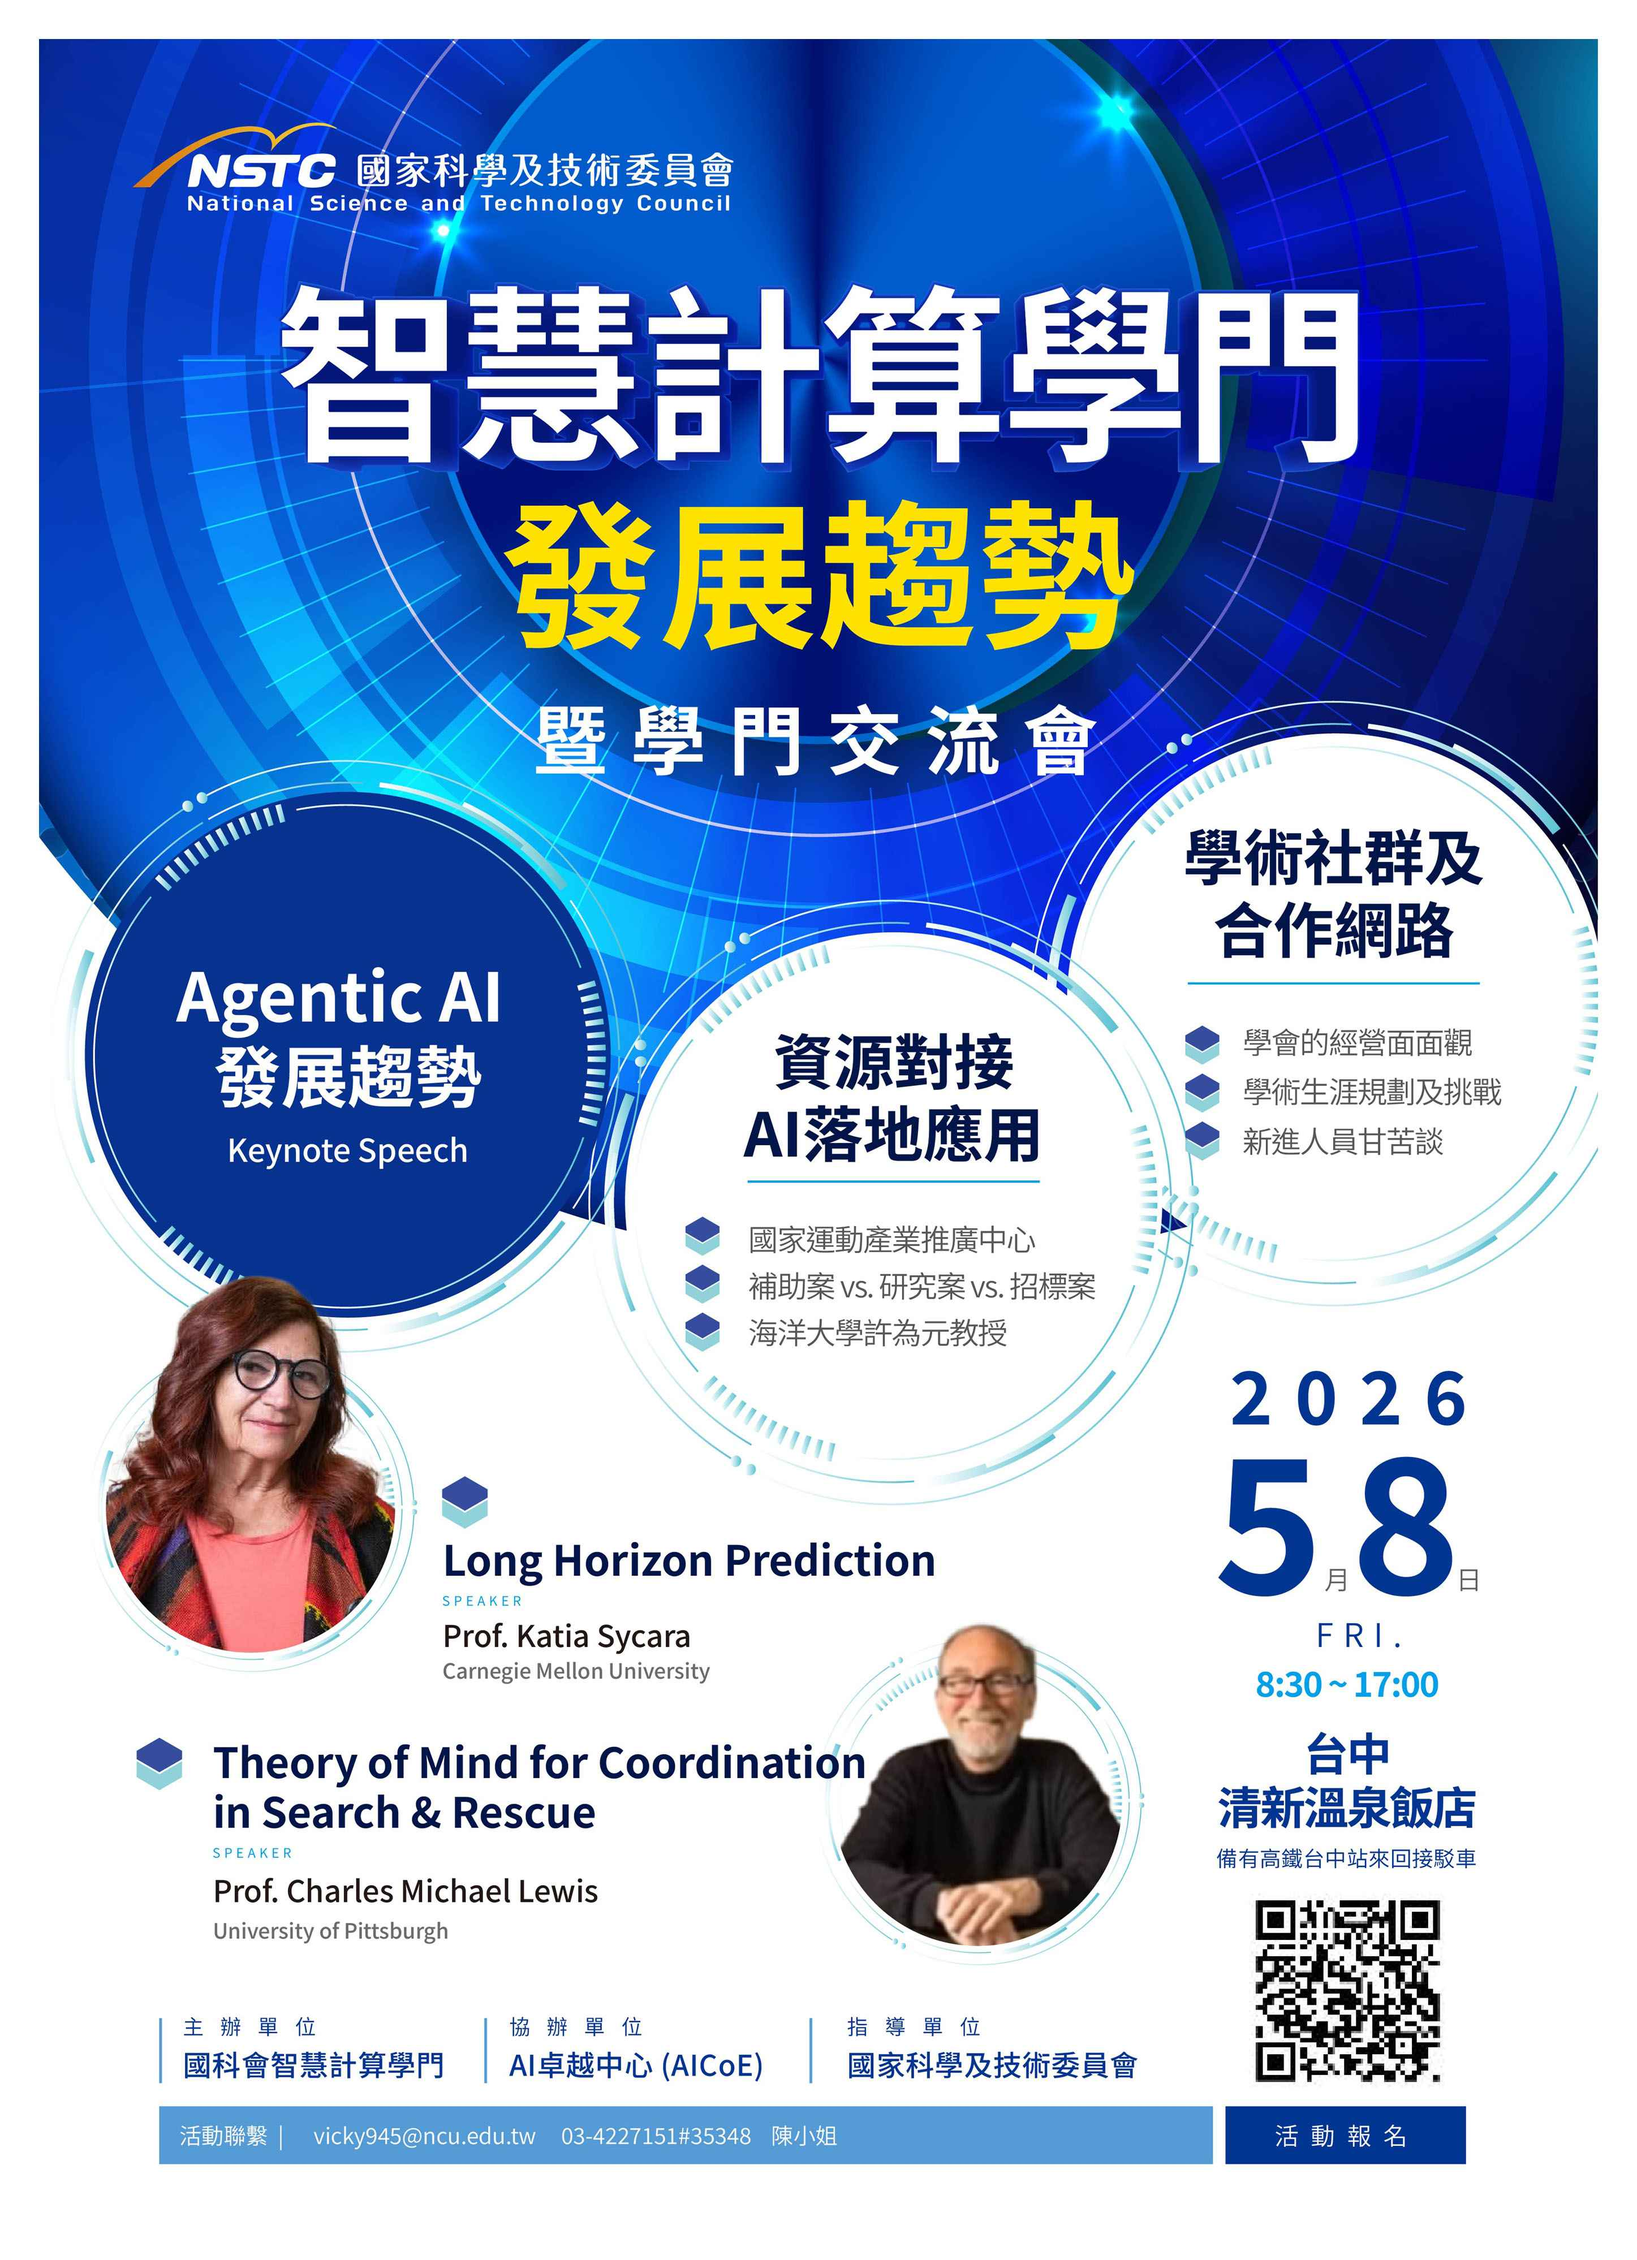
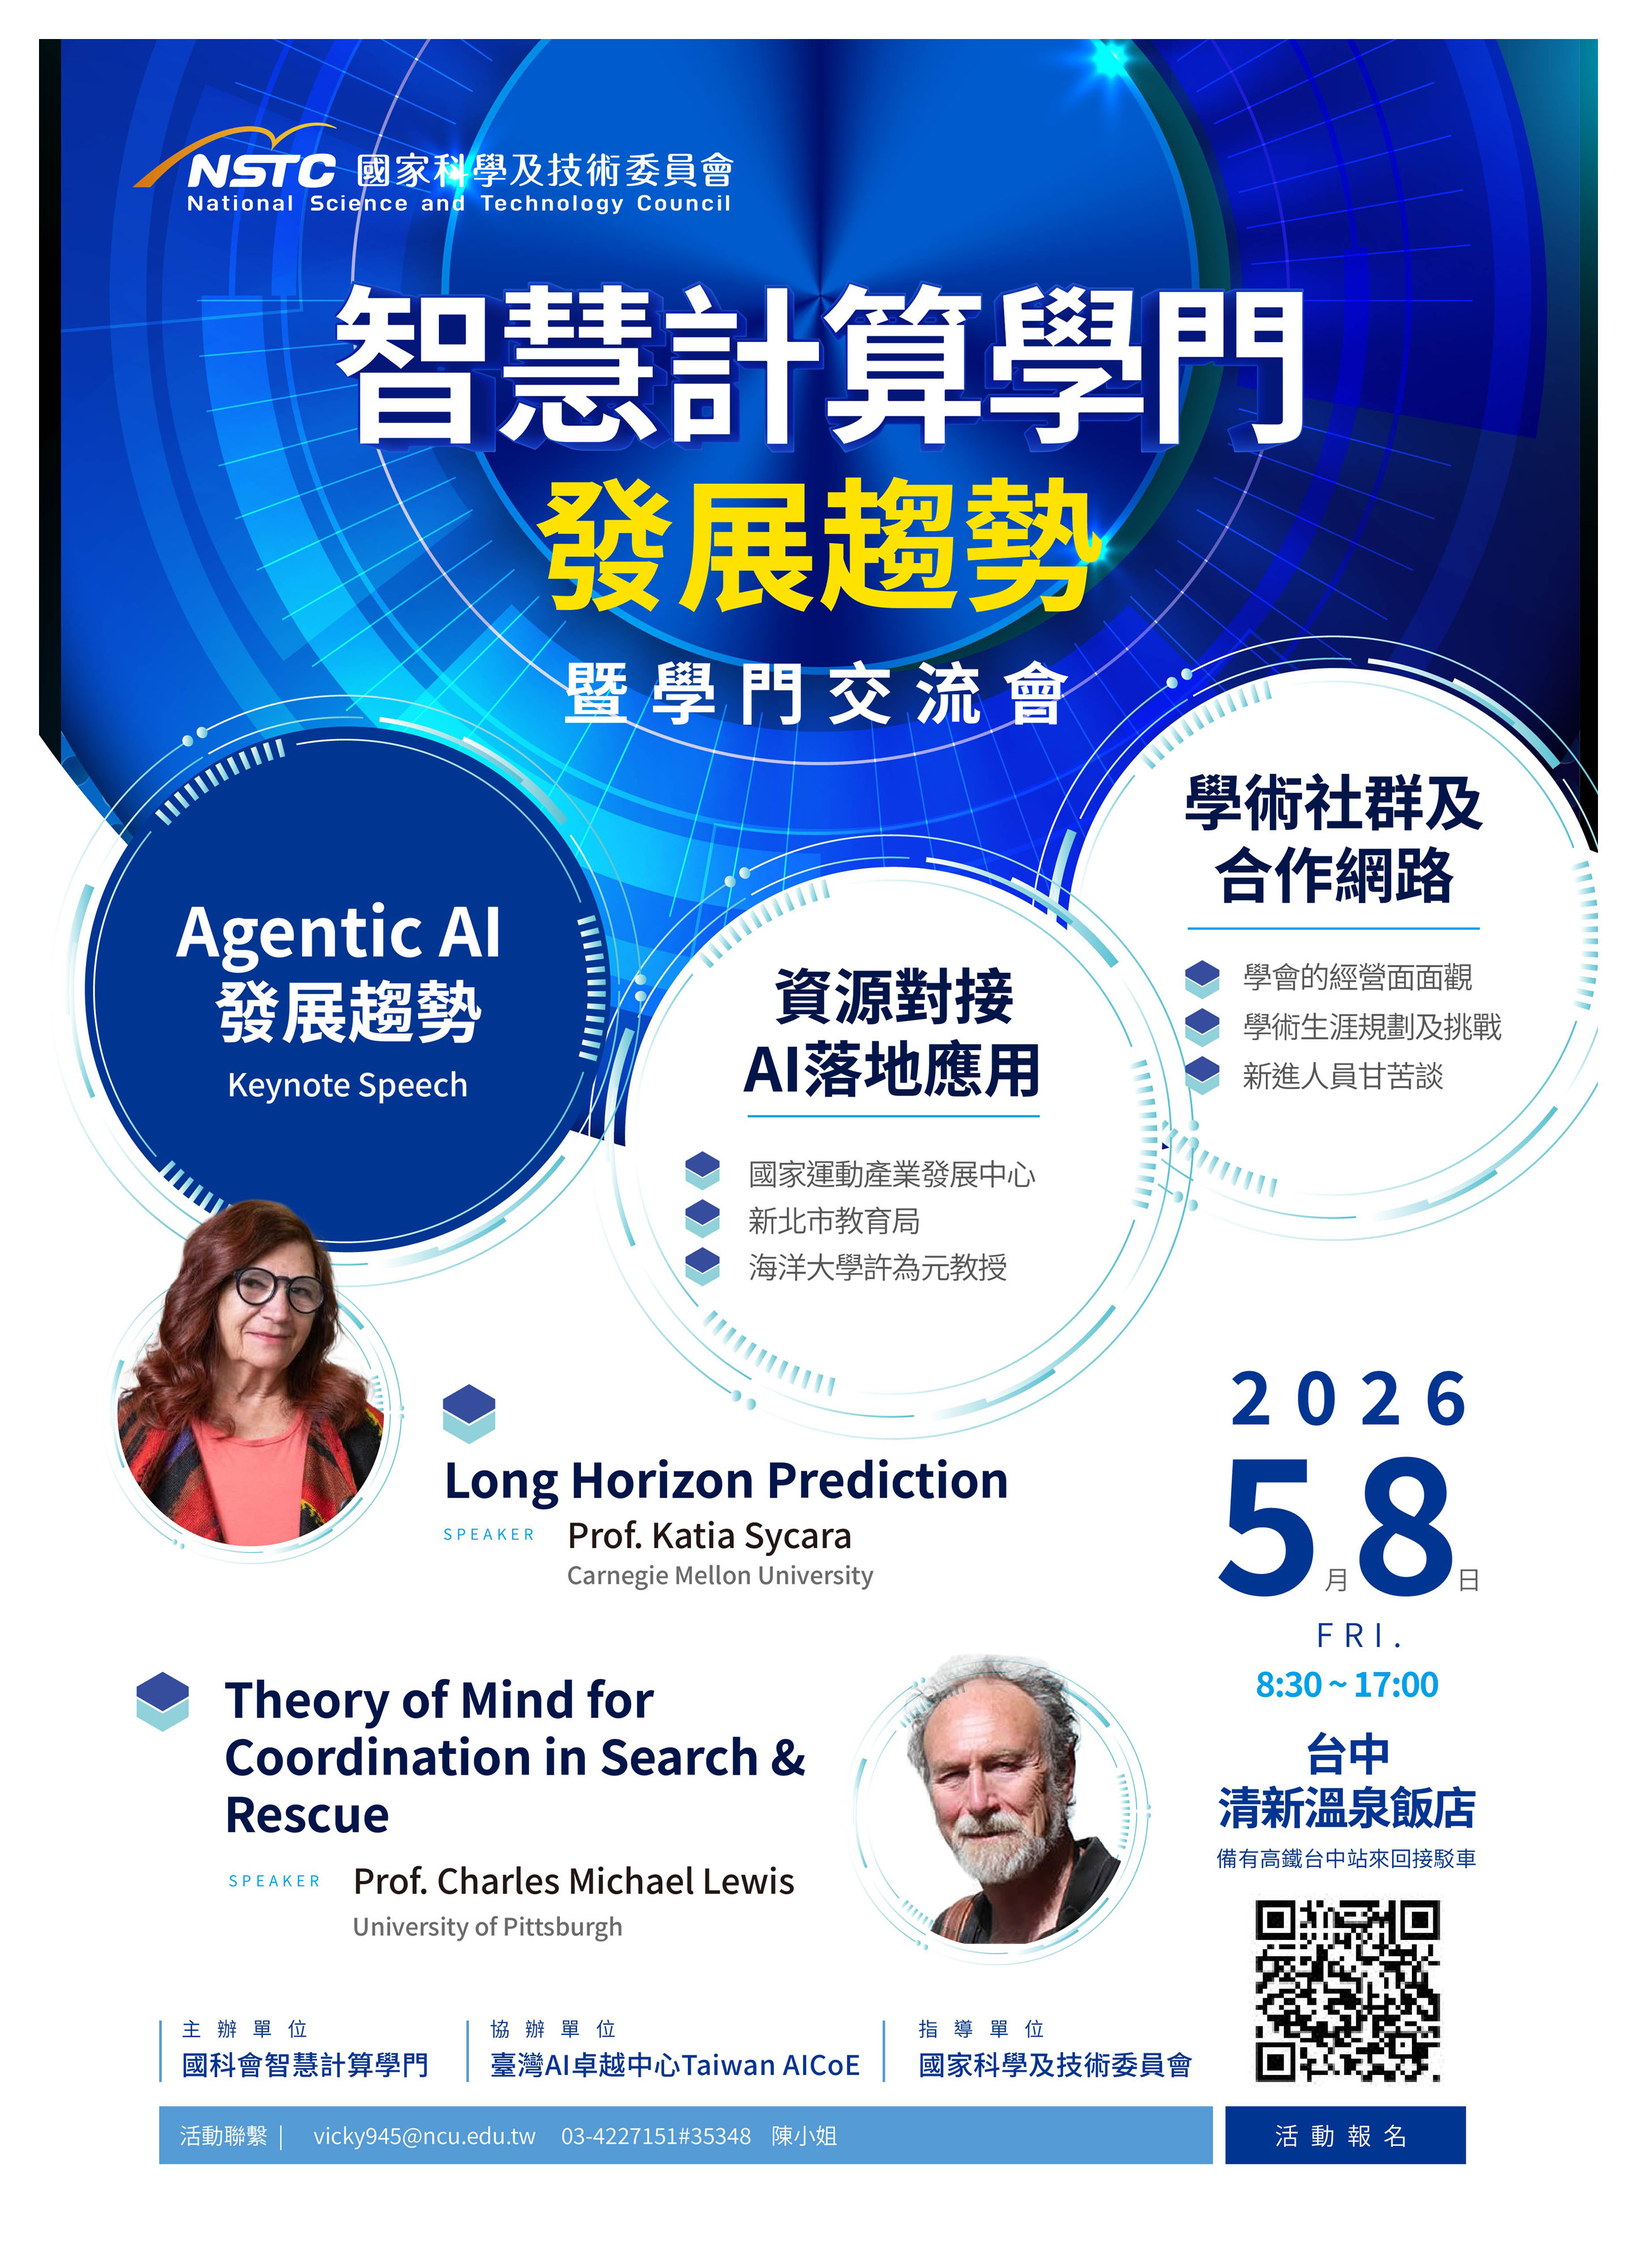
更新與談者陣容中的職稱，將「副處長」改為「副執行長」

diff --git a/index.html b/index.html
@@ -1149,7 +1149,7 @@
           <h3 class="forum-title">與談者陣容</h3>
           <p class="forum-lead">專題座談「資源對接、AI落地應用」</p>
           <ul class="forum-list">
-            <li>國家運動中心 黃進來 副處長</li>
+            <li>國家運動產業發展中心 黃進來 副執行長</li>
             <li>新北市教育局 張明文 局長</li>
             <li>海洋大學 許為元 教授</li>
             <li>主持人：洪盟峯 教授</li>
